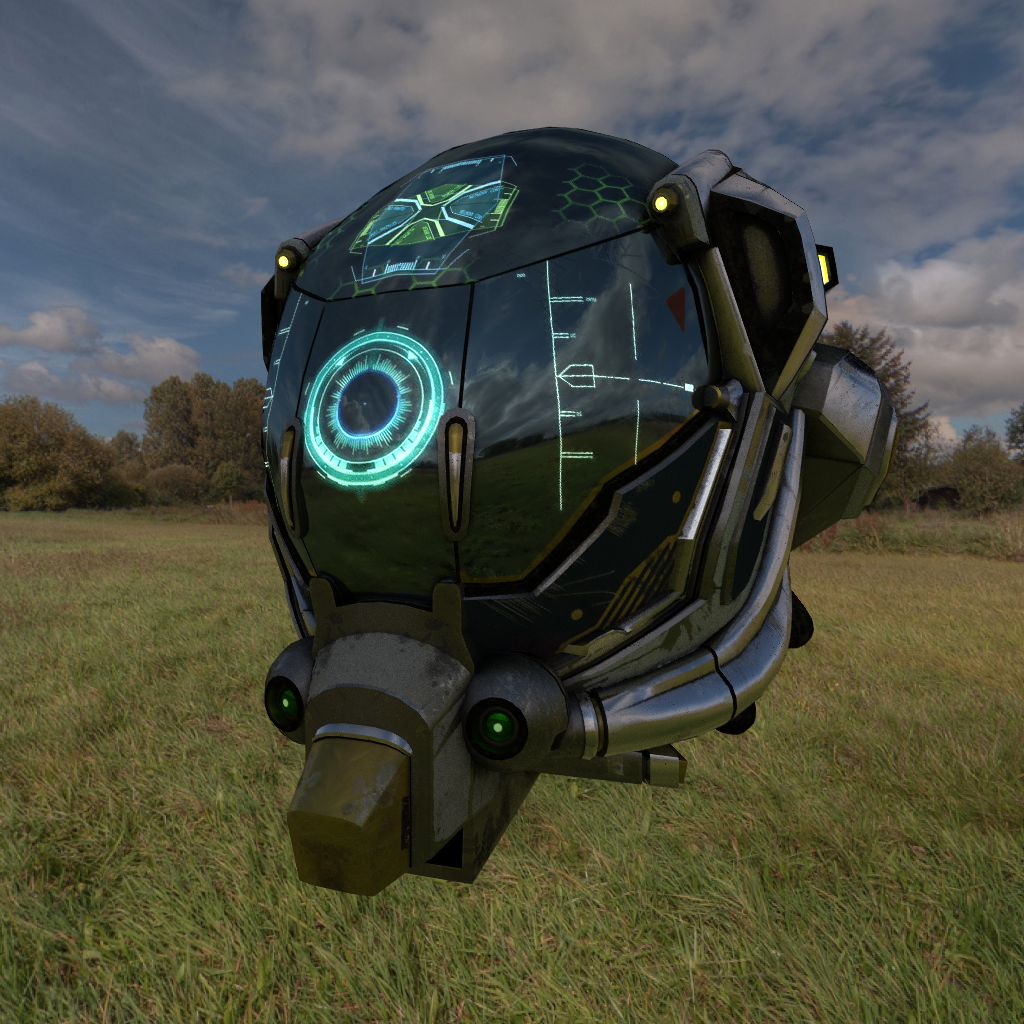
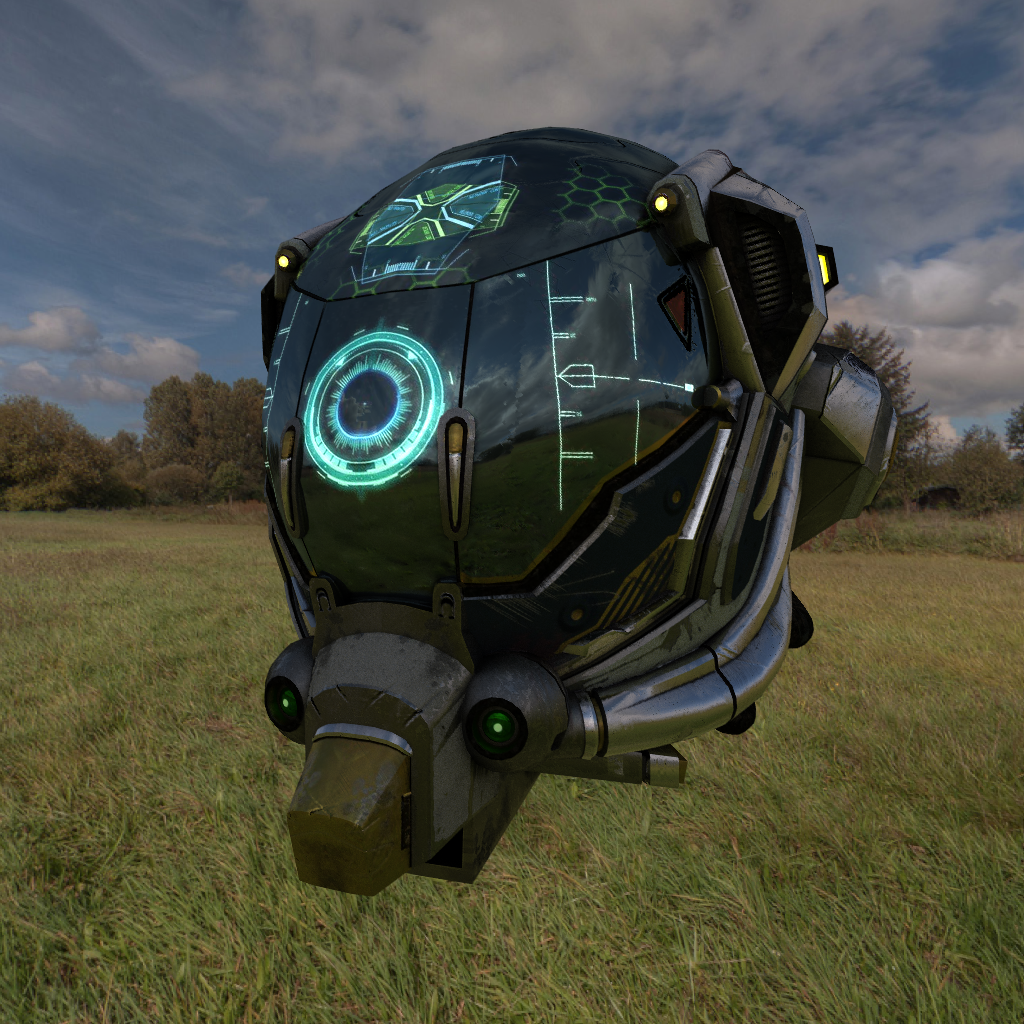
Added normal mapping

diff --git a/raytracer.c b/raytracer.c
@@ -319,6 +319,19 @@ internal inline b8 ray_triangles_hit_8(
     );
     hit->material   = triangles->aos[t].material;
 
+    Vec3 edge1 = vec3_sub(vec3(triangles->b_x[t], triangles->b_y[t], triangles->b_z[t]), vec3(triangles->a_x[t], triangles->a_y[t], triangles->a_z[t]));
+    Vec3 edge2 = vec3_sub(vec3(triangles->c_x[t], triangles->c_y[t], triangles->c_z[t]), vec3(triangles->a_x[t], triangles->a_y[t], triangles->a_z[t]));
+
+    Vec2 delta_uv1 = vec2_sub(triangles->aos[t].tex_coords_b, triangles->aos[t].tex_coords_a);
+    Vec2 delta_uv2 = vec2_sub(triangles->aos[t].tex_coords_c, triangles->aos[t].tex_coords_a);
+
+    f32 d = delta_uv1.x * delta_uv2.y - delta_uv2.x * delta_uv1.y;
+    if (abs_f32(d) < EPSILON) {
+      d = 1.0f;
+    }
+
+    hit->tangent = vec3_scale(vec3_sub(vec3_scale(edge1, delta_uv2.y), vec3_scale(edge2, delta_uv1.y)), 1.0f / d);
+
     return true;
   }
 
@@ -438,9 +451,7 @@ internal void sort_triangle_slice(Triangle_Slice slice, isize axis) {
       if (aabb_hits & mask) {
         BVH_Index idx = node->children[offset];
         if (idx.leaf) {
-          if (ray_triangles_hit_8(ray, &bvh->triangles, idx.index, hit)) {
-            hit->bvh_depth = depth;
-          }
+          ray_triangles_hit_8(ray, &bvh->triangles, idx.index, hit);
         } else {
           ray_bvh_node_hit(ray, bvh, &IDX(bvh->nodes, idx.index), hit, depth + 1);
         }
@@ -617,8 +628,6 @@ Color3 cast_ray(Ray ray) {
       // if (vec3_dot(hit.normal, ray.direction) > 0) {
       //   hit.normal = vec3_scale(hit.normal, -1);
       // }
-      // f32 depth = hit.bvh_depth * 0.2;
-      // return vec3_broadcast(depth);
 
       hit.normal   = vec3_normalize(hit.normal);
       ray.position = vec3_add(hit.point, vec3_scale(hit.normal, EPSILON));
@@ -627,6 +636,7 @@ Color3 cast_ray(Ray ray) {
 
       // return vec3_broadcast(hit.distance * 0.25);
       // return vec3_add(vec3_scale(hit.normal, 0.5), vec3(0.5, 0.5, 0.5));
+      // return vec3_add(vec3_scale(vec3_normalize(hit.tangent), 0.5), vec3(0.5, 0.5, 0.5));
       // return vec3(hit.tex_coords.x, hit.tex_coords.y, 0);
 
       if (material.texture_albedo) {
@@ -634,7 +644,6 @@ Color3 cast_ray(Ray ray) {
       }
 
       Color3 e = material.emission;
-
       if (material.texture_emission) {
         e = vec3_mul(e, sample_texture(material.texture_emission, hit.tex_coords));
       }
@@ -648,6 +657,23 @@ Color3 cast_ray(Ray ray) {
           material.type = Material_Type_Diffuse;
         }
         material.roughness *= mr.g;
+      }
+
+      if (material.texture_normal) {
+        Vec3 v = sample_texture(material.texture_normal, hit.tex_coords);
+             v = vec3_add(vec3_scale(v, 2.0), vec3(-1, -1, -1));
+
+        Vec3 t = vec3_normalize(hit.tangent);
+        Vec3 b = vec3_cross(hit.normal, hit.tangent);
+        Vec3 n = hit.normal;
+
+        hit.normal = vec3_normalize(
+          vec3(
+            .x = v.x * t.x + v.y * b.x + v.z * n.x,
+            .y = v.x * t.y + v.y * b.y + v.z * n.y,
+            .z = v.x * t.z + v.y * b.z + v.z * n.z,
+          )
+        );
       }
 
       switch (material.type) {
@@ -817,6 +843,7 @@ i32 main() {
   Image texture_albedo          = {0};
   Image texture_metal_roughness = {0};
   Image texture_emission        = {0};
+  Image texture_normal          = {0};
 
   b8 bg_image_ok = png_load_bytes(
     unwrap_err(
@@ -854,6 +881,16 @@ i32 main() {
       context.allocator)
     ),
     &texture_emission,
+    context.allocator
+  );
+  assert(tex_image_ok);
+
+  tex_image_ok = png_load_bytes(
+    unwrap_err(
+      read_entire_file_path(LIT("helmet_normal.png"),
+      context.allocator)
+    ),
+    &texture_normal,
     context.allocator
   );
   assert(tex_image_ok);
@@ -896,6 +933,7 @@ i32 main() {
       .texture_albedo          = &texture_albedo,
       .texture_metal_roughness = &texture_metal_roughness,
       .texture_emission        = &texture_emission,
+      .texture_normal          = &texture_normal,
     };
 
     slice_iter_v(obj.triangles, t, i, {

diff --git a/raytracer.h b/raytracer.h
@@ -22,8 +22,7 @@
 #undef  IDX
 #define IDX(arr, i) (arr).data[(i)]
 
-typedef __m256  f32x8;
-typedef __m256i i32x8;
+typedef __m256 f32x8;
 
 typedef struct {
   f32x8 x, y;
@@ -100,10 +99,9 @@ enum {
 
 typedef struct {
   f32         distance;
-  Vec3        normal, point;
+  Vec3        normal, point, tangent;
   Vec2        tex_coords;
   Material_Id material;
-  i32         bvh_depth;
   b8          back_face;
 } Hit;
 
@@ -126,7 +124,7 @@ typedef struct {
 typedef Slice(Triangle) Triangle_Slice;
 
 typedef struct {
-  Vec3        normal_a, normal_b, normal_c;
+  Vec3        normal_a,     normal_b,     normal_c;
   Vec2        tex_coords_a, tex_coords_b, tex_coords_c;
   Material_Id material;
 } Triangle_AOS;
